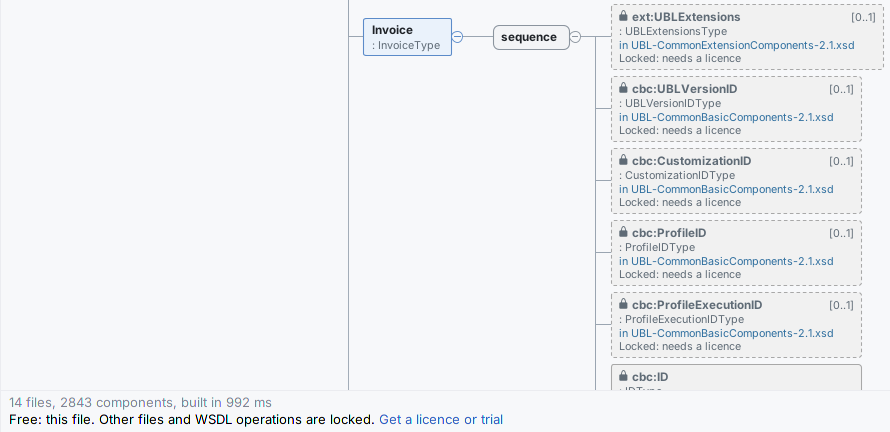
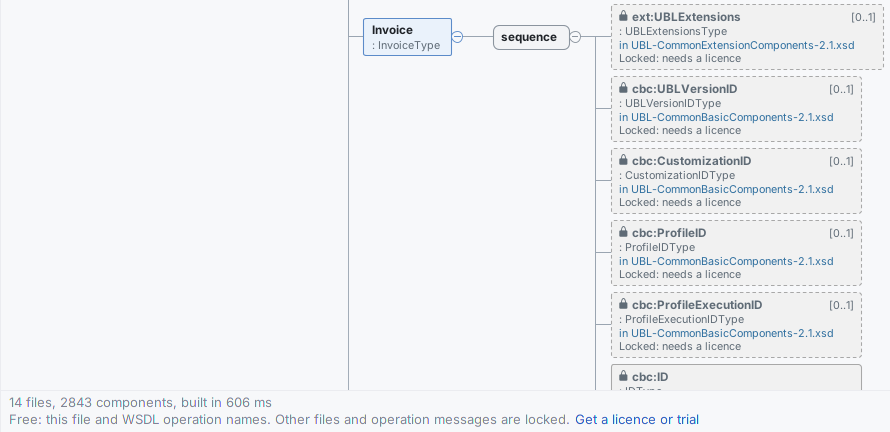
Xsdtrail 1.0.2 after the customer gate: SOAP section with the free and licensed WSDL images moved up, free-tier images recaptured, Expand All and licence-line wording, Help > Manage Licenses, truthful listing status (not submitted yet), EULA page xsdtrail/eula.html, sitemap

Changed region(s): [[0.0, 0.9028, 0.7888, 0.9931]]

diff --git a/xsdtrail/index.html b/xsdtrail/index.html
@@ -84,18 +84,29 @@
   <p class="fine">Above: the OASIS UBL 2.1 Invoice schema, unmodified, in a sample integration project. One Design tab reads it and the 13 files behind it: 14 files, 2,843 components, and every box from another file names that file. Tap any image for the full IDE window, Project view included.</p>
 
   <div class="buy">
-    <p class="price"><strong>Free for any single XSD or WSDL file</strong>, with no time limit. <strong>$12 once</strong> for multi-file schemas and the WSDL operation view: personal or commercial, every update included, nothing to renew. 30-day trial.</p>
+    <p class="price"><strong>Free for any single XSD or WSDL file</strong>, with no time limit. <strong>$12 once</strong> for multi-file schemas and the full WSDL operation view: personal or commercial, every update included, nothing to renew. 30-day trial.</p>
     <p><a class="button pending" id="buy" href="#" aria-describedby="buy-note" onclick="return false;">Get it on JetBrains Marketplace</a></p>
-    <p class="note" id="buy-note">Listing in review: not available to install yet. This button links to the JetBrains Marketplace listing once JetBrains has approved it. For a note when it is live, email <a href="mailto:support@ochrestack.com?subject=Xsdtrail%20listing">support@ochrestack.com</a>.</p>
+    <p class="note" id="buy-note">Not on JetBrains Marketplace yet, so it cannot be installed or tried today. The listing goes to JetBrains for review next; this button links to it once JetBrains has approved it, and the free tier and the 30-day trial start from there. For a note when it is live, email <a href="mailto:support@ochrestack.com?subject=Xsdtrail%20listing">support@ochrestack.com</a>.</p>
     <p class="fine">For IntelliJ IDEA 2025.1 or later, and other JetBrains IDEs on the 2025.1 platform or later that include XML support. Sold and billed by JetBrains Marketplace as a perpetual licence. No network calls, no telemetry. <a href="#documentation">Install steps</a> · <a href="quick-start.html">Quick start</a></p>
   </div>
+
+  <h2 id="soap">For SOAP contracts</h2>
+  <p>Open a WSDL and its Design tab lists each service, its ports with their addresses, each binding with SOAP 1.1 or 1.2 and the document or rpc style, and the operations. That much is free, so you can see your own contract's shape before you pay. With a licence, each operation unfolds to its input, output and fault messages, their parts, and the XSD fields behind them, from schemas inline in the WSDL or imported from the folder. A missing message, part element or binding is a red box that says what is missing.</p>
+  <figure>
+    <a href="img/wsdl-operation.png"><img src="img/wsdl-operation-diagram.png" alt="The Design tab of checkVatService.wsdl: binding checkVatBinding, SOAP 1.1 · document; operation checkVat unfolded to input (message impl:checkVatRequest) and output (message impl:checkVatResponse), each to part parameters and its element, checkVat with countryCode and vatNumber, checkVatResponse with countryCode, vatNumber, requestDate, valid, and name and address marked [0..1]; operation checkVatApprox below, folded" width="1125" height="410" loading="lazy"></a>
+    <figcaption>With a licence: the EU's VIES <code>checkVatService.wsdl</code> from the binding (SOAP 1.1, document style) to the operation, its input and output messages, their parts, and the XSD fields behind them. Tap for the full window.</figcaption>
+  </figure>
+  <figure>
+    <a href="img/wsdl-free.png"><img src="img/wsdl-free-diagram.png" alt="The same WSDL without a licence: service checkVatService (1 port), port checkVatPort with its address http://ec.europa.eu/taxation_customs/vies/services/checkVatService and binding impl:checkVatBinding, binding checkVatBinding (SOAP 1.1 · document), and the operations checkVat and checkVatApprox, each grey with a lock and 'Locked: needs a licence'" width="1160" height="140" loading="lazy"></a>
+    <figcaption>Free, on the same WSDL: service, port with its address, binding, and the operation names. Each operation's messages are what the licence adds. Tap for the full window, with the line under the diagram.</figcaption>
+  </figure>
 
   <h2 id="watch">Watch it work</h2>
   <figure>
     <video controls preload="none" playsinline poster="video/poster.jpg" width="1280" height="720">
       <source src="video/xsdtrail-demo-720p.mp4" type="video/mp4">
     </video>
-    <figcaption>The demo, 44 s, captions only, no sound: Xsdtrail 1.0.1 in IntelliJ IDEA Community 2025.1.7, recorded at 60 fps on the same invoice-gateway project as the images below (OASIS UBL 2.1 and the EU VIES WSDL, unmodified). Every shot but the last shows the licensed features; the last shows the free tier. The status line's first-open times (1,036 ms and 1,087 ms) are those of our test machine. <a href="video/xsdtrail-multi-file.gif">The multi-file moment as a looping GIF</a> (0.3 MB).</figcaption>
+    <figcaption>The demo, 44 s, captions only, no sound: Xsdtrail 1.0.1 in IntelliJ IDEA Community 2025.1.7, recorded at 60 fps on the same invoice-gateway project as the images below (OASIS UBL 2.1 and the EU VIES WSDL, unmodified). Every shot but the last shows the licensed features; the last shows the 1.0.1 free tier. Since 1.0.2 the free tier also shows a WSDL's services, bindings and operation names, as in the image above. The status line's first-open times (1,036 ms and 1,087 ms) are those of our test machine. <a href="video/xsdtrail-multi-file.gif">The multi-file moment as a looping GIF</a> (0.3 MB).</figcaption>
   </figure>
   <figure>
     <img src="video/xsdtrail-multi-file.gif" alt="Looping clip from the demo: Invoice unfolds in the Design tab and every box is labelled with the UBL common-component file that declares it; a double-click on cac:AccountingSupplierParty opens UBL-CommonAggregateComponents-2.1.xsd at its declaration, line 27" width="960" height="540" loading="lazy">
@@ -119,16 +130,17 @@
     <li><strong>Controls:</strong> unfold or fold a box, Expand All, Collapse All, Ctrl+wheel zoom, Actual Size, Fit to Window, and a search box that finds a global element or type by name.</li>
     <li><strong>Navigation both ways.</strong> Double-click a box, or press Enter, to open its declaration at the exact line. <strong>Show in Design</strong> in the editor's context menu selects the box for the declaration under the caret. With the editor split, the selection follows the caret.</li>
     <li>The source stays editable; the diagram refreshes after an edit and keeps what you had unfolded.</li>
+    <li><strong>A WSDL's outline:</strong> services, ports with addresses, bindings with SOAP version and style, and the operation names.</li>
   </ul>
   <h3>With a licence ($12 once)</h3>
   <ul>
     <li><strong>Multi-file schemas.</strong> <code>xs:include</code>, <code>xs:import</code> and <code>xs:redefine</code> are followed through relative <code>schemaLocation</code> values. An import with only a namespace, or with a location that does not resolve, is matched by <code>targetNamespace</code> in the same folder first, then in the project, then in the project's libraries. Boxes from other files sit in place, and a double-click opens them in their own file. Anything unresolved is a red box naming the missing namespace or file.</li>
-    <li><strong>WSDL operation view</strong> (WSDL 1.1). Services, ports with addresses, bindings with SOAP 1.1 or 1.2 and the document or rpc style, and operations. Each operation unfolds to its input, output and fault messages, their parts, and the XSD elements or types they reference, inline or imported from the folder. A missing message, part element or binding is marked with the reason.</li>
+    <li><strong>The full WSDL operation view</strong> (WSDL 1.1). Each operation unfolds to its input, output and fault messages, their parts, and the XSD elements or types they reference, inline or imported from the folder. A missing message or part element is marked with the reason.</li>
   </ul>
-  <p>Without a licence, boxes from other files show a lock, their file name and "Locked: needs a licence". Nothing pops up. When a trial or licence starts, open Design tabs unlock by themselves. The free features never lock.</p>
+  <p>Without a licence, boxes from other files show a lock, their file name and "Locked: needs a licence", and a WSDL's operations are shown by name and locked. Nothing pops up. A line under the diagram offers <strong>Get a licence or trial</strong>, which opens the IDE's own licence dialog when you click it; in IntelliJ IDEA Community the licence dialog is also under <strong>Help &gt; Manage Licenses…</strong>. When a trial or licence starts, open Design tabs unlock by themselves. The free features never lock.</p>
 
   <h2>In the IDE, for real</h2>
-  <p>Every image on this page is a capture of a real IntelliJ IDEA Community 2025.1.7 window with Xsdtrail 1.0.1 installed, not a mockup. The project is a small invoice gateway that keeps two real, public contracts: the OASIS UBL 2.1 schemas and the European Commission's VIES VAT-check WSDL, both unmodified. Tap an image for the full window.</p>
+  <p>Every image on this page is a capture of a real IntelliJ IDEA Community 2025.1.7 window with Xsdtrail installed, not a mockup: the free-tier images with 1.0.2, the others with 1.0.1, whose licensed view is the same. The project is a small invoice gateway that keeps two real, public contracts: the OASIS UBL 2.1 schemas and the European Commission's VIES VAT-check WSDL, both unmodified. Tap an image for the full window.</p>
 
   <figure>
     <a href="img/invoice-project.png"><img src="img/invoice-project.png" alt="The whole IntelliJ IDEA window: the project invoice-gateway, the Project view listing the UBL 2.1 document schemas under contracts/ubl-2.1/xsd/maindoc with UBL-Invoice-2.1.xsd selected, and its Design tab beside it; the breadcrumb reads invoice-gateway, contracts, ubl-2.1, xsd, maindoc, UBL-Invoice-2.1.xsd" width="1280" height="800" loading="lazy"></a>
@@ -141,13 +153,8 @@
   </figure>
 
   <figure>
-    <a href="img/free-tier.png"><img src="img/free-tier-detail.png" alt="The same Invoice schema without a licence: Invoice and its sequence from the open file are shown normally; ext:UBLExtensions, cbc:UBLVersionID, cbc:CustomizationID, cbc:ProfileID and cbc:ProfileExecutionID are grey with a lock, their file name and 'Locked: needs a licence'. Under the diagram: '14 files, 2843 components, built in 992 ms' and 'Free: this file. Other files and WSDL operations are locked. Get a licence or trial'" width="890" height="432" loading="lazy"></a>
-    <figcaption>The free tier on the same schema: the open file works; boxes from the other files show where they come from and stay locked, with one line under the diagram. No popup.</figcaption>
-  </figure>
-
-  <figure>
-    <a href="img/wsdl-operation.png"><img src="img/wsdl-operation-diagram.png" alt="The Design tab of checkVatService.wsdl: binding checkVatBinding, SOAP 1.1 · document; operation checkVat unfolded to input (message impl:checkVatRequest) and output (message impl:checkVatResponse), each to part parameters and its element, checkVat with countryCode and vatNumber, checkVatResponse with countryCode, vatNumber, requestDate, valid, and name and address marked [0..1]; operation checkVatApprox below, folded" width="1125" height="410" loading="lazy"></a>
-    <figcaption>The WSDL operation view on the EU's VIES <code>checkVatService.wsdl</code>: binding (SOAP 1.1, document style), operation, input and output messages, their parts, and the XSD fields behind them. Tap for the full window.</figcaption>
+    <a href="img/free-tier.png"><img src="img/free-tier-detail.png" alt="The same Invoice schema without a licence: Invoice and its sequence from the open file are shown normally; ext:UBLExtensions, cbc:UBLVersionID, cbc:CustomizationID, cbc:ProfileID and cbc:ProfileExecutionID are grey with a lock, their file name and 'Locked: needs a licence'. Under the diagram: '14 files, 2843 components, built in 606 ms' and 'Free: this file and WSDL operation names. Other files and operation messages are locked. Get a licence or trial'" width="890" height="432" loading="lazy"></a>
+    <figcaption>The free tier on the same schema: the open file works; boxes from the other files show where they come from and stay locked, with one line under the diagram and its Get a licence or trial link. No popup.</figcaption>
   </figure>
 
   <figure>
@@ -163,7 +170,7 @@
     <tr><td>Generated multi-file set</td><td>26</td><td>5,001</td><td>228–305 ms</td></tr>
     <tr><td>A 5.6 MB WSDL (one file, over the IDE's code-insight limit)</td><td>1</td><td>1,546</td><td>397–521 ms</td></tr>
   </table>
-  <p>In a running IDE the first open is slower: about half a second for UBL Invoice, and 1 to 1.6 s while the IDE is still indexing after startup. In the images on this page, taken shortly after the sandbox IDE started, the status line reads 967 ms and 992 ms. The status line shows the build time on your machine.</p>
+  <p>In a running IDE the first open is slower: about half a second for UBL Invoice, and 1 to 1.6 s while the IDE is still indexing after startup. In the images on this page, taken shortly after the sandbox IDE started, the status line reads 967 ms (licensed) and 606 ms (free tier). The status line shows the build time on your machine.</p>
   <p>Also checked: all 65 UBL 2.1 document schemas (the first 3,000 boxes of each), and a 7-file SOAP WSDL with 491 operations. None showed an unresolved reference.</p>
 
   <h2 id="faq">Questions</h2>
@@ -178,15 +185,16 @@
   <h3>My import has only a namespace. Will it find the file?</h3>
   <p>With a licence, yes, if a schema with that <code>targetNamespace</code> is in the same folder, the project, or the project's libraries. If two files declare the same component, the import box warns and names the file it used. While the IDE is still indexing, it says so and rebuilds when indexing ends.</p>
   <h3>What happens when the trial ends?</h3>
-  <p>Boxes from other files and the WSDL operations show as locked, with the file named and a one-line note. Nothing pops up, and the single-file Design tab keeps working.</p>
+  <p>Boxes from other files and each WSDL operation's messages show as locked, with the file named and a one-line note. Nothing pops up, and the single-file Design tab keeps working, a WSDL's services, bindings and operation names included.</p>
   <h3>Can I edit the schema, generate sample XML or export the diagram?</h3>
-  <p>Not in version one. Xsdtrail reads schemas; you edit them in the Text tab and the diagram refreshes.</p>
+  <p>Not in version one. Xsdtrail reads schemas; you edit them in the Text tab and the diagram refreshes. If you need export, tell us at support@ochrestack.com.</p>
 
   <h2 id="details">Details</h2>
   <ul>
     <li>Buying: through JetBrains Marketplace, which sells, bills and refunds the licence under its own terms. The licence is perpetual: $12 once, personal or commercial, every update included.</li>
     <li>Compatibility: IntelliJ IDEA 2025.1 or later, and other JetBrains IDEs on the 2025.1 platform or later that include XML support. Checked with JetBrains' Plugin Verifier against IntelliJ IDEA 2025.1.7 and IntelliJ IDEA 2026.3. English only.</li>
     <li>Privacy: no network calls, no telemetry, no analytics, no data collection. Xsdtrail reads only the files of the open project. Licence status comes from your IDE's JetBrains Marketplace licensing; the plugin itself sends nothing. See also the <a href="../privacy.html">privacy policy</a>.</li>
+    <li>Licence terms: the <a href="eula.html">Xsdtrail End User License Agreement</a>.</li>
     <li>Support: <a href="mailto:support@ochrestack.com">support@ochrestack.com</a>, with the IDE version (Help &gt; About) and, if you can, the schema or a reduced copy. Bug reports and feature requests are welcome at the same address.</li>
   </ul>
 
@@ -197,7 +205,7 @@
     <li>Once the listing is live: in the IDE, open <strong>Settings &gt; Plugins &gt; Marketplace</strong>, search for <em>Xsdtrail</em> and click <strong>Install</strong>. Restart the IDE if asked.</li>
     <li>Open any file whose root element is <code>xs:schema</code> or <code>wsdl:definitions</code>. Two tabs appear under the editor: <strong>Text</strong> and <strong>Design</strong>.</li>
     <li>Click <strong>Design</strong>. Click ⊕ on a box, or press Space or →, to unfold it. Double-click a box to open its source line.</li>
-    <li>To unlock multi-file schemas and the WSDL operation view, click <strong>Get a licence or trial</strong> under the Design tab's status line, which opens the IDE's own licence dialog.</li>
+    <li>To unlock multi-file schemas and each WSDL operation's messages, click <strong>Get a licence or trial</strong> under the Design tab's status line, which opens the IDE's own licence dialog (in IntelliJ IDEA Community, also <strong>Help &gt; Manage Licenses…</strong>).</li>
   </ol>
 
   <h2 id="limits">Known limits</h2>
@@ -207,7 +215,7 @@
     <li>The root element must start within the first 1 MB of the file.</li>
     <li>The project-wide and library namespace lookup considers <code>.xsd</code> files; the same-folder lookup also considers <code>.wsdl</code> and <code>.xml</code>.</li>
     <li>When one namespace matches several files that declare the same component, the diagram uses the first (folder before project, then by path) and the import box warns; it does not guess which copy is current.</li>
-    <li><strong>Expand All</strong> stops at 4,000 boxes and says so.</li>
+    <li><strong>Expand All</strong> unfolds up to 4,000 boxes, counting those already shown, and says when it stops; unfold the rest one branch at a time.</li>
     <li>On files over the IDE's code-insight limit, following the caret can take a tenth of a second per move.</li>
   </ul>
   <p style="font-size:14px;color:var(--muted)">UBL is an OASIS standard; the UBL 2.1 schemas shown are © OASIS Open 2013, shown unmodified. The VIES <code>checkVatService.wsdl</code> is published by the European Commission. Xsdtrail is not affiliated with or endorsed by OASIS, the European Commission or JetBrains.</p>

diff --git a/xsdtrail/quick-start.html b/xsdtrail/quick-start.html
@@ -39,7 +39,7 @@
 
   <h2 id="install">Install (IntelliJ IDEA 2025.1 or later, or another JetBrains IDE on the 2025.1 platform with XML support)</h2>
   <ol>
-    <li>In the IDE, open <strong>Settings &gt; Plugins &gt; Marketplace</strong>, search for <em>Xsdtrail</em> (once the listing is live; it is in review), and click <strong>Install</strong>.</li>
+    <li>In the IDE, open <strong>Settings &gt; Plugins &gt; Marketplace</strong>, search for <em>Xsdtrail</em> (once the listing is live; it has not been submitted yet), and click <strong>Install</strong>.</li>
     <li>Restart the IDE if asked.</li>
   </ol>
   <p>Xsdtrail registers no file type and changes no file type association, so installing it does not change how your files open.</p>
@@ -58,10 +58,10 @@
     <li>Elements show their name and type. Optional ones have a dashed border, repeating ones a stacked shadow, and the cardinality is in the box: <code>[0..1]</code>, <code>[1..*]</code>.</li>
     <li><code>sequence</code>, <code>choice</code> and <code>all</code> appear as their own boxes between a parent and its children. Attributes appear as <code>@name</code> with required or optional, default and fixed values. <code>extension of …</code> and <code>restriction of …</code> boxes unfold to the base type. Enumeration values appear as <code>= value</code>.</li>
     <li>↻ marks a type that already appears above it, instead of unfolding forever.</li>
-    <li>A red box is something that cannot be resolved; it names the missing namespace, file or declaration.</li>
+    <li>A red box is something that cannot be resolved; it names the missing namespace, file or declaration. A long reason wraps over up to three lines, and the tooltip has all of it.</li>
     <li>Hover a box for its tooltip: the <code>xs:documentation</code> text and the details of the declaration.</li>
   </ul>
-  <p><strong>Toolbar:</strong> Expand All (stops at 4,000 boxes on very large schemas and says so), Collapse All, Zoom In, Zoom Out, Actual Size, Fit to Window, Rebuild Diagram. Ctrl+mouse wheel zooms around the pointer. The search box on the right finds a global element or type by name; when several match equally well, the status line says "Match 1 of 2" with the file name, and Enter steps to the next.</p>
+  <p><strong>Toolbar:</strong> Expand All (unfolds up to 4,000 boxes, counting those already shown; when the next unfold would pass that, it stops and says so), Collapse All, Zoom In, Zoom Out, Actual Size, Fit to Window, Rebuild Diagram. Ctrl+mouse wheel zooms around the pointer. The search box on the right finds a global element or type by name; when several match equally well, the status line says "Match 1 of 2" with the file name, and Enter steps to the next.</p>
 
   <h2 id="navigate">Navigate both ways</h2>
   <ul>
@@ -80,14 +80,15 @@
   </ol>
   <p>Types and elements from other files appear in place, labelled with their file name. When a schema file is added, renamed or changed on disk, for example after a pull or a branch switch, the diagram rebuilds. While the IDE is still indexing, the project and library search waits: the import says so, and the diagram rebuilds when indexing ends. Nothing is ever downloaded: a <code>schemaLocation</code> that is a URL is reported as not downloaded.</p>
 
-  <h2 id="wsdl">WSDL operation view (licence)</h2>
-  <p>For a WSDL 1.1 file the Design tab has two sections. <strong>Types</strong> holds the schemas inline in <code>wsdl:types</code> and is free. <strong>Services and operations</strong> lists each service, its ports with their addresses, each port's binding with SOAP 1.1 or 1.2 and the document or rpc style, and the operations. An operation unfolds to its input, output and fault messages, their parts, and the XSD elements or types those parts reference. A missing message, part element or binding, and a binding that no port uses, appear as red boxes that say what is missing. An abstract WSDL, with operations in a <code>wsdl:portType</code> and no binding, lists those operations, each naming its portType.</p>
-  <figure><a href="img/wsdl-operation.png"><img src="img/wsdl-operation-diagram.png" alt="checkVatService.wsdl in the Design tab: binding checkVatBinding (SOAP 1.1 · document), operation checkVat with its input and output messages, their parameters parts, and the fields of checkVat and checkVatResponse" width="1125" height="410" loading="lazy"></a><figcaption>The EU's VIES <code>checkVatService.wsdl</code>, unfolded from the binding to the fields of each message.</figcaption></figure>
+  <h2 id="wsdl">WSDL operation view (operation names free, messages with a licence)</h2>
+  <p>For a WSDL 1.1 file the Design tab has two sections. <strong>Types</strong> holds the schemas inline in <code>wsdl:types</code>. <strong>Services and operations</strong> lists each service, its ports with their addresses, each port's binding with SOAP 1.1 or 1.2 and the document or rpc style, and the operations; without a licence you see all of that for the open file, with each operation locked. With a licence an operation unfolds to its input, output and fault messages, their parts, and the XSD elements or types those parts reference. A missing message, part element or binding, and a binding that no port uses, appear as red boxes that say what is missing. An abstract WSDL, with operations in a <code>wsdl:portType</code> and no binding, lists those operations, each naming its portType.</p>
+  <figure><a href="img/wsdl-operation.png"><img src="img/wsdl-operation-diagram.png" alt="checkVatService.wsdl in the Design tab: binding checkVatBinding (SOAP 1.1 · document), operation checkVat with its input and output messages, their parameters parts, and the fields of checkVat and checkVatResponse" width="1125" height="410" loading="lazy"></a><figcaption>The EU's VIES <code>checkVatService.wsdl</code> with a licence, unfolded from the binding to the fields of each message.</figcaption></figure>
+  <figure><a href="img/wsdl-free.png"><img src="img/wsdl-free-diagram.png" alt="The same WSDL without a licence: service checkVatService, port checkVatPort with its address, binding checkVatBinding (SOAP 1.1 · document), and the operations checkVat and checkVatApprox, each locked" width="1160" height="140" loading="lazy"></a><figcaption>Without a licence: service, port, binding and operation names; each operation's messages are locked.</figcaption></figure>
 
   <h2 id="licence">Licence and trial</h2>
-  <p>Without a licence, every box from another file is shown with its name, its file label, a lock and "Locked: needs a licence". The WSDL operation view shows one locked box. Nothing pops up. A line under the status line offers <strong>Get a licence or trial</strong>, which opens the IDE's own licence dialog only when you click it.</p>
+  <p>Without a licence, every box from another file is shown with its name, its file label, a lock and "Locked: needs a licence". In a WSDL, each operation is shown by name and locked; double-clicking it says what the licence adds. Nothing pops up. Whenever something in the diagram is locked, a line under the status line reads "Free: this file and WSDL operation names. Other files and operation messages are locked." followed by <strong>Get a licence or trial</strong>, which opens the IDE's own licence dialog only when you click it. In IntelliJ IDEA Community the licence dialog is also under <strong>Help &gt; Manage Licenses…</strong>.</p>
   <p>When the trial or licence becomes active, open Design tabs unlock by themselves; nothing needs reopening. The licence is a JetBrains Marketplace perpetual licence: $12 once, personal or commercial, every update included, nothing to renew. A 30-day trial unlocks everything, and the free features never lock.</p>
-  <figure><a href="img/free-tier.png"><img src="img/free-tier-detail.png" alt="UBL Invoice without a licence: boxes from the common-component files grey with a lock, the file name and 'Locked: needs a licence'; under the diagram, 'Free: this file. Other files and WSDL operations are locked. Get a licence or trial'" width="890" height="432" loading="lazy"></a><figcaption>Without a licence: the open file works, boxes from other files are locked, and one line explains why.</figcaption></figure>
+  <figure><a href="img/free-tier.png"><img src="img/free-tier-detail.png" alt="UBL Invoice without a licence: boxes from the common-component files grey with a lock, the file name and 'Locked: needs a licence'; under the diagram, 'Free: this file and WSDL operation names. Other files and operation messages are locked. Get a licence or trial'" width="890" height="432" loading="lazy"></a><figcaption>Without a licence: the open file works, boxes from other files are locked, and one line explains why.</figcaption></figure>
 
   <h2 id="limits">Known limits</h2>
   <ul>
@@ -95,6 +96,7 @@
     <li>Not supported: WSDL 2.0, XSD 1.1 assertions and conditional types, DTD, RELAX NG, validation of XML instance documents. English only.</li>
     <li>The root element must start within the first 1 MB of the file.</li>
     <li>When one namespace matches several files that declare the same component, the diagram uses the first (folder before project, then by path) and the import box warns.</li>
+    <li>Expand All unfolds up to 4,000 boxes, counting those already shown; a file whose first level alone has more than 4,000 declarations unfolds nothing. Unfold the rest one branch at a time.</li>
     <li>On files over the IDE's code-insight limit (2.5 MB by default), following the caret can take a tenth of a second per move.</li>
   </ul>
 

diff --git a/xsdtrail/eula.html b/xsdtrail/eula.html
@@ -1,0 +1,57 @@
+<!doctype html>
+<html lang="en">
+<head>
+<meta charset="utf-8">
+<meta name="viewport" content="width=device-width, initial-scale=1">
+<title>Xsdtrail End User License Agreement: Ochrestack</title>
+<meta name="description" content="The End User License Agreement (Developer EULA) for Xsdtrail for XSD and WSDL, the JetBrains IDE plugin by Ochrestack.">
+<link rel="canonical" href="https://ochrestack.com/xsdtrail/eula.html">
+<link rel="icon" href="../icon.svg" type="image/svg+xml">
+<style>
+  :root { --ochre: #C8842B; --ink: #2B2118; --paper: #FAF7F2; --muted: #6B5E52; }
+  body { margin: 0; font: 17px/1.6 system-ui, -apple-system, "Segoe UI", Roboto, sans-serif; color: var(--ink); background: var(--paper); }
+  main { max-width: 760px; margin: 0 auto; padding: 40px 24px 64px; }
+  h1 { font-size: 24px; } h2 { font-size: 19px; margin-top: 36px; }
+  p, li { max-width: 68ch; } a { color: var(--ochre); }
+  .back { display: inline-block; margin-bottom: 24px; }
+  .updated { color: var(--muted); font-size: 15px; }
+  footer { max-width: 760px; margin: 0 auto; padding: 0 24px 48px; color: var(--muted); font-size: 15px; }
+  footer a { margin-right: 18px; }
+</style>
+</head>
+<body>
+<main>
+  <a class="back" href="index.html">Xsdtrail for XSD and WSDL</a>
+  <h1>Xsdtrail for XSD and WSDL: End User License Agreement</h1>
+  <p class="updated">Applies to Xsdtrail 1.0.2 and later. Last updated: November 6, 2026</p>
+  <p>Copyright (c) 2026 Ochrestack. All rights reserved.</p>
+  <p>This agreement is between you (an individual, or the organisation you act for) and Ochrestack (&quot;we&quot;) for the software plugin &quot;Xsdtrail for XSD and WSDL&quot; (the &quot;Plugin&quot;), distributed through JetBrains Marketplace. By installing or using the Plugin you accept this agreement.</p>
+  <h2>1. Licence grant</h2>
+  <p>a. Free features. We grant you a non-exclusive, worldwide, non-transferable, royalty-free licence to install and use the free features of the Plugin, for personal and commercial purposes, with no time limit.</p>
+  <p>b. Paid features. The paid features (multi-file schema resolution, and the messages, parts and schema declarations of WSDL operations) are unlocked by a licence purchased through JetBrains Marketplace, or by a JetBrains Marketplace trial. A purchased licence is a perpetual licence: it does not expire and includes all updates of the Plugin. The number of users, the licence holder and the purchase terms are those of the JetBrains Marketplace order; the JetBrains Marketplace terms govern payment, refunds and licence transfer.</p>
+  <h2>2. Restrictions</h2>
+  <p>You may not: (a) sell, rent, sublicense or redistribute the Plugin, except as allowed by JetBrains Marketplace; (b) remove or circumvent the licence check or any notice in the Plugin; (c) reverse engineer, decompile or disassemble the Plugin, except to the extent applicable law expressly permits it despite this restriction.</p>
+  <h2>3. Your data</h2>
+  <p>The Plugin reads files of the project you open, on your machine, to draw the diagram. It does not send any data over the network, does not collect personal data, and contains no telemetry or analytics. Licence verification is performed by your JetBrains IDE through JetBrains Marketplace; the Plugin only reads the result the IDE provides.</p>
+  <h2>4. Third-party material</h2>
+  <p>The Plugin includes licence-verification code published by JetBrains for Marketplace plugins. Schemas you open remain subject to their own licences.</p>
+  <h2>5. Ownership</h2>
+  <p>The Plugin is licensed, not sold. We keep all rights not expressly granted in this agreement.</p>
+  <h2>6. No warranty</h2>
+  <p>THE PLUGIN IS PROVIDED &quot;AS IS&quot;, WITHOUT WARRANTY OF ANY KIND, EXPRESS OR IMPLIED, INCLUDING THE WARRANTIES OF MERCHANTABILITY, FITNESS FOR A PARTICULAR PURPOSE AND NON-INFRINGEMENT, TO THE EXTENT PERMITTED BY LAW.</p>
+  <h2>7. Limitation of liability</h2>
+  <p>TO THE EXTENT PERMITTED BY LAW, WE ARE NOT LIABLE FOR ANY INDIRECT, INCIDENTAL, SPECIAL OR CONSEQUENTIAL DAMAGES, OR LOSS OF DATA OR PROFITS, ARISING FROM THE USE OF THE PLUGIN. OUR TOTAL LIABILITY IS LIMITED TO THE AMOUNT YOU PAID FOR THE PLUGIN LICENCE. Nothing in this agreement limits liability that cannot be limited by law, or your statutory rights as a consumer.</p>
+  <h2>8. Termination</h2>
+  <p>This agreement ends automatically if you breach it. On termination you must stop using the Plugin and delete it.</p>
+  <h2>9. Changes and contact</h2>
+  <p>We may publish a new version of this agreement with a new Plugin version; the version shipped with the Plugin you use applies to it. Contact: <a href="mailto:support@ochrestack.com">support@ochrestack.com</a>, <a href="https://ochrestack.com">https://ochrestack.com</a></p>
+</main>
+<footer>
+  <a href="../guides/">Guides</a>
+  <a href="../privacy.html">Privacy</a>
+  <a href="../terms.html">Terms</a>
+  <a href="../support.html">Support</a>
+  <span>&copy; 2026 Ochrestack</span>
+</footer>
+</body>
+</html>

diff --git a/index.html b/index.html
@@ -41,7 +41,7 @@
   <p><a href="attachkeep/">Attachkeep for Confluence</a>: finds the Confluence Cloud attachments no page, blog post, comment or diagram on your site refers to, including uploads from people who have left, and moves the ones you choose to the space trash after a preview and a dry run. Free for up to 10 users; coming to the Atlassian Marketplace.</p>
   <p><a href="labelkeep/">Labelkeep for Jira</a>: lists every label on your Jira Cloud site with its issue count and groups duplicate spellings, then deletes, renames or merges labels on every issue the app can access, with a preview and a dry run first, in the background, naming Jira's reason and the fix for any issue that fails. Free; coming to the Atlassian Marketplace.</p>
   <p><a href="sortlatch/">Sortlatch for Confluence</a>: keeps a Confluence Cloud page's child pages in A to Z order, permanently. New, renamed and moved pages go to their place within minutes, with numbers in natural order, Z to A, newest or oldest first, pins, a preview and undo. Free for up to 10 users; coming to the Atlassian Marketplace.</p>
-  <p><a href="xsdtrail/">Xsdtrail for XSD and WSDL</a>: a Design tab for XML Schema and WSDL files in IntelliJ IDEA and other JetBrains IDEs (2025.1 and later). A schema split across many files opens as one diagram, each box labelled with its file, and a double-click opens the declaration. Free for one file; $12 once for multi-file schemas and the WSDL operation view. Listing on JetBrains Marketplace in review.</p>
+  <p><a href="xsdtrail/">Xsdtrail for XSD and WSDL</a>: a Design tab for XML Schema and WSDL files in IntelliJ IDEA and other JetBrains IDEs (2025.1 and later). A schema split across many files opens as one diagram, each box labelled with its file, and a double-click opens the declaration. Free for one file; $12 once for multi-file schemas and the full WSDL operation view. Coming to JetBrains Marketplace; not submitted yet.</p>
   <p><a href="linkrounds/">Linkrounds for WordPress</a>: a broken link checker that runs on your own server, with no account and no link limit, and calls a link Broken only after it fails twice, an hour apart. Every fix is a post revision you can restore. Free; Linkrounds Pro adds scheduled scans, an email report and CSV export from $29 one-time (3 sites) or $79 (unlimited sites), no renewal.</p>
   <p><a href="guides/">Guides</a>: measured answers to common Blender animation export problems, starting with what Blender's own exporters already get right.</p>
   <p>More tools are in development. Each is listed here with its documentation and where to get it: on the platform's own marketplace, or directly from this site.</p>
